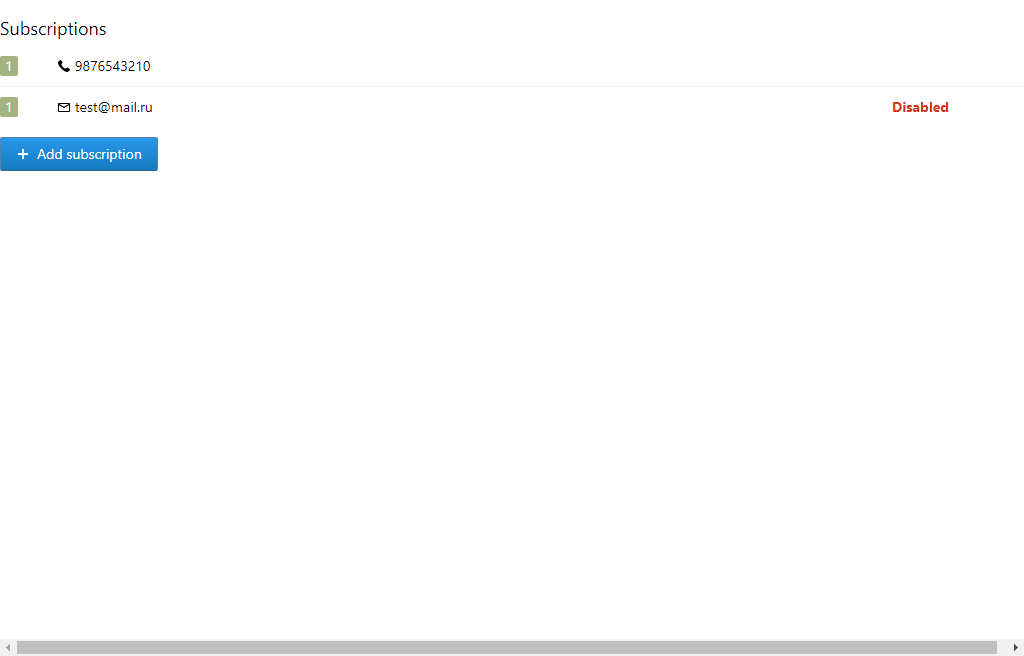
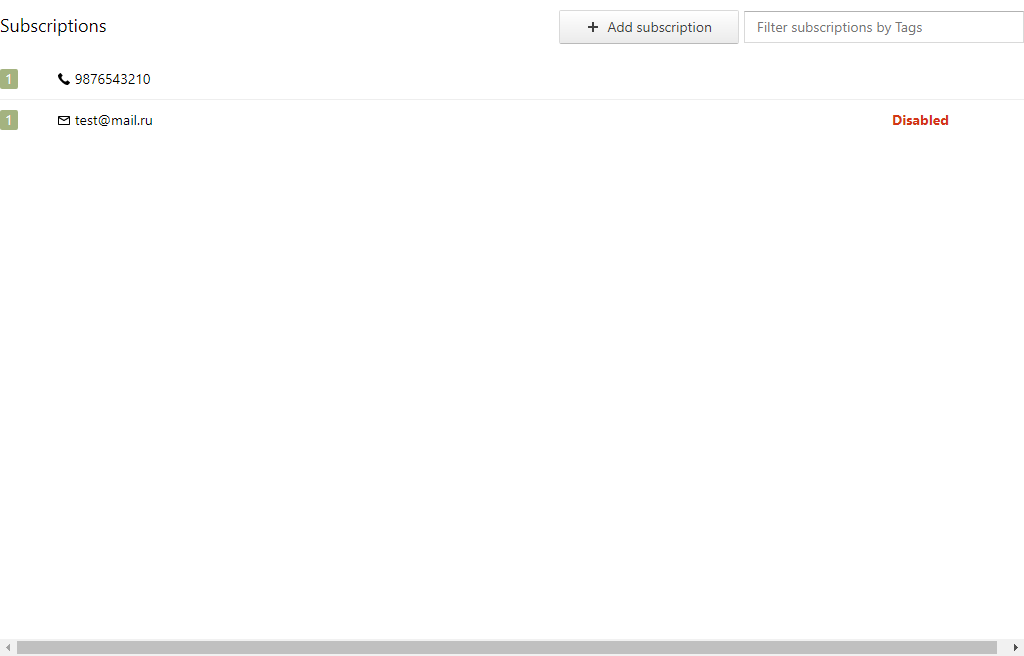
Markup "filter" and "add button" and some refactor

diff --git a/src/Components/SubscriptionList/SubscriptionList.jsx b/src/Components/SubscriptionList/SubscriptionList.jsx
@@ -4,6 +4,7 @@ import { Button } from "@skbkontur/react-ui/components/Button";
 import { Center } from "@skbkontur/react-ui/components/Center";
 import { Gapped } from "@skbkontur/react-ui/components/Gapped";
 import AddIcon from "@skbkontur/react-icons/Add";
+import { Fill, RowStack, Fit } from "@skbkontur/react-stack-layout";
 import type { Subscription } from "../../Domain/Subscription";
 import type { Contact } from "../../Domain/Contact";
 import { createSchedule, WholeWeek } from "../../Domain/Schedule";
@@ -32,10 +33,20 @@ type State = {
     newSubscription: ?SubscriptionInfo,
     subscriptionEditModalVisible: boolean,
     subscriptionToEdit: ?Subscription,
+    availableTags: string[],
+    filteredSubscription: Subscription[],
 };
 
 export default class SubscriptionList extends React.Component<Props, State> {
     props: Props;
+
+    constructor(props: Props) {
+        super(props);
+
+        const { subscriptions } = props;
+        this.state.filteredSubscription = subscriptions;
+        this.state.availableTags = [...new Set(subscriptions.flatMap(i => i.tags))];
+    }
 
     state: State = {
         newSubscriptionModalVisible: false,
@@ -43,19 +54,7 @@ export default class SubscriptionList extends React.Component<Props, State> {
         subscriptionEditModalVisible: false,
         subscriptionToEdit: null,
         filteredTags: [],
-        filteredSubscription: [],
-        subscriptionTags: [],
     };
-
-    componentDidMount() {
-        const { subscriptions } = this.props;
-        this.setState({
-            filteredSubscription: subscriptions,
-            subscriptionTags: subscriptions
-                .map(i => [...i.tags])
-                .reduce((current, result) => [...new Set([...current, ...result])]),
-        });
-    }
 
     render(): React.Element<any> {
         const { tags, contacts, subscriptions } = this.props;
@@ -66,28 +65,36 @@ export default class SubscriptionList extends React.Component<Props, State> {
             subscriptionToEdit,
             filteredSubscription,
             filteredTags,
-            subscriptionTags,
+            availableTags,
         } = this.state;
 
         return (
             <div>
                 {subscriptions.length > 0 ? (
                     <div>
-                        <h3 className={cn("header")}>Subscriptions</h3>
-                        <div className={cn("actions-block")}>
-                            <Button
-                                use="primary"
-                                icon={<AddIcon />}
-                                onClick={this.handleAddSubscription}
-                            >
-                                Add subscription
-                            </Button>
-                        </div>
-                        <TagDropdownSelect
-                            value={filteredTags}
-                            availableTags={subscriptionTags}
-                            onChange={this.handleFilteredSubscription}
-                        />
+                        <RowStack gap={1} baseline block>
+                            <h2 className={cn("header")}>Subscriptions</h2>
+                            <Fill />
+                            <Fit>
+                                <Button
+                                    width={180}
+                                    use="default"
+                                    icon={<AddIcon />}
+                                    onClick={this.handleAddSubscription}
+                                >
+                                    Add subscription
+                                </Button>
+                            </Fit>
+                            <Fit>
+                                <TagDropdownSelect
+                                    width={280}
+                                    value={filteredTags}
+                                    availableTags={availableTags}
+                                    onChange={this.handleFilteredSubscription}
+                                    placeholder=" Filter subscriptions by Tags"
+                                />
+                            </Fit>
+                        </RowStack>
                         <div className={cn("items-container")}>
                             <table className={cn("items")}>
                                 <tbody>
@@ -134,17 +141,16 @@ export default class SubscriptionList extends React.Component<Props, State> {
         );
     }
 
-    handleFilteredSubscription = (tags: Array<string>) => {
+    handleFilteredSubscription = (tags: string[]) => {
         const { subscriptions } = this.props;
-        const filteredSubscription = subscriptions.filter(
-            subscription => tags.filter(x => subscription.tags.includes(x)).length === tags.length
+        const filteredSubscription = subscriptions.filter(subscription =>
+            tags.every(x => subscription.tags.includes(x))
         );
+
         this.setState({
             filteredTags: tags,
             filteredSubscription,
-            subscriptionTags: filteredSubscription
-                .map(i => [...i.tags])
-                .reduce((current, result) => [...new Set([...current, ...result])]),
+            availableTags: [...new Set(filteredSubscription.flatMap(i => i.tags))],
         });
     };
 

diff --git a/src/Components/TagDropdownSelect/TagDropdownSelect.jsx b/src/Components/TagDropdownSelect/TagDropdownSelect.jsx
@@ -18,6 +18,7 @@ type Props = {
     isDisabled?: boolean,
     width: number,
     allowCreateNewTags?: boolean,
+    placeholder?: string,
 };
 
 type State = {
@@ -237,7 +238,7 @@ export default class TagDropdownSelect extends React.Component<Props, State> {
     }
 
     renderInput(): React.Node {
-        const { error, value, isDisabled } = this.props;
+        const { error, value, isDisabled, placeholder } = this.props;
         const { isFocused, inputValue } = this.state;
         return (
             <div
@@ -268,6 +269,7 @@ export default class TagDropdownSelect extends React.Component<Props, State> {
                     }
                     onFocus={() => this.setState({ isFocused: true })}
                     disabled={isDisabled}
+                    placeholder={value.length === 0 ? placeholder : undefined}
                 />
             </div>
         );

diff --git a/src/Components/SubscriptionList/SubscriptionList.less b/src/Components/SubscriptionList/SubscriptionList.less
@@ -1,8 +1,7 @@
 .header {
     font-size: 18px;
-    line-height: 20px;
     font-weight: 400;
-    margin-bottom: 8px;
+    margin-bottom: 24px;
 }
 
 .actions-block {
